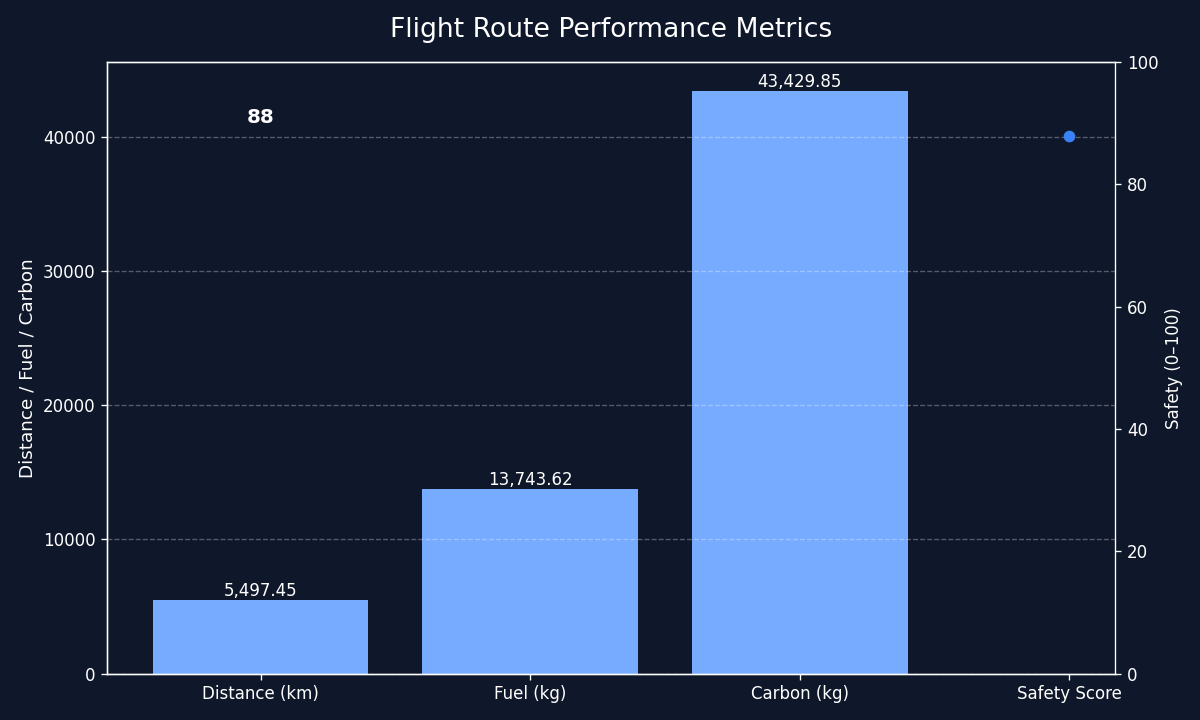
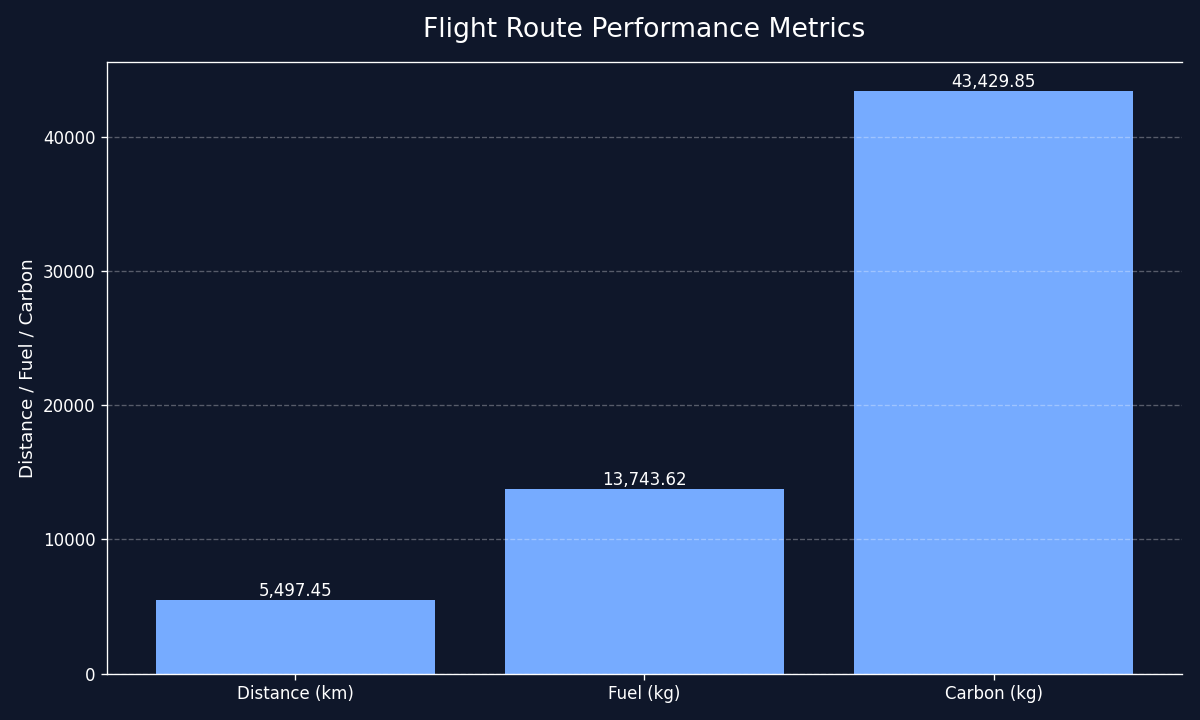
Major update: improved route optimizer, simulation, and visualization

diff --git a/frontend/script.js b/frontend/script.js
@@ -130,8 +130,7 @@ function renderSummary(best) {
     <p><strong>Total Distance:</strong> ${formatNumber(best.distance_km)} km</p>
     <p><strong>Total Fuel:</strong> ${formatNumber(best.fuel_kg)} kg</p>
     <p><strong>Total Carbon Emission:</strong> ${formatNumber(best.carbon_kg)} kg CO2</p>
-    <p><strong>Safety Score:</strong> ${formatNumber(best.safety_score)} /100</p>
   `;
   document.getElementById("routeHeader").innerHTML = summaryHTML;
   document.getElementById("routeHeader").style.display = "block";
-} 
+}  

diff --git a/simulation.py b/simulation.py
@@ -16,13 +16,10 @@ def simulate_route(origin, destination, aircraft, weather):
     fuel = distance * aircraft["fuel_burn"] * weather
     carbon = fuel * 3.16
 
-    safety = max(60, 100 - int(weather * 12))
-
     return {
         "distance_km": round(distance, 2),
         "fuel_kg": round(fuel, 2),
-        "carbon_kg": round(carbon, 2),
-        "safety_score": safety
+        "carbon_kg": round(carbon, 2)
     }
 def simulate_route_multi(points, aircraft, weather):
     total_distance = 0.0
@@ -33,10 +30,8 @@ def simulate_route_multi(points, aircraft, weather):
 
     fuel = total_distance * aircraft["fuel_burn"] * weather
     carbon = fuel * 3.16
-    safety = max(60, 100 - int(weather * 12))
     return {
         "distance_km": round(total_distance, 2),
         "fuel_kg": round(fuel, 2),
-        "carbon_kg": round(carbon, 2),
-        "safety_score": safety
+        "carbon_kg": round(carbon, 2)
     }

diff --git a/visualization.py b/visualization.py
@@ -1,9 +1,11 @@
 import os
+import matplotlib
+matplotlib.use("Agg")
 import matplotlib.pyplot as plt
 
 BASE_DIR = "frontend"
 
-def plot_flight_metrics(distance, fuel, carbon, safety):
+def plot_flight_metrics(distance, fuel, carbon):
     if not os.path.exists(BASE_DIR):
         os.makedirs(BASE_DIR)
 
@@ -36,20 +38,6 @@ def plot_flight_metrics(distance, fuel, carbon, safety):
             va="bottom",
             fontsize=10
         )
-
-    ax2 = ax1.twinx()
-    ax2.set_ylim(0, 100)
-    ax2.set_ylabel("Safety (0–100)")
-    ax2.plot(["Safety Score"], [safety], marker="o", linewidth=2, color="#3b82f6")
-    
-    ax2.text(
-        0,
-        safety + 2,
-        f"{int(safety)}",
-        ha="center",
-        fontsize=12,
-        fontweight="bold"
-    )
 
     plt.tight_layout()
 

diff --git a/main.py b/main.py
@@ -55,7 +55,7 @@ def optimize(data: FlightInput):
 
    
     graph_path = plot_flight_metrics(
-        best["distance_km"], best["fuel_kg"], best["carbon_kg"], best["safety_score"]
+        best["distance_km"], best["fuel_kg"], best["carbon_kg"]
     )
 
     route_coords = []
